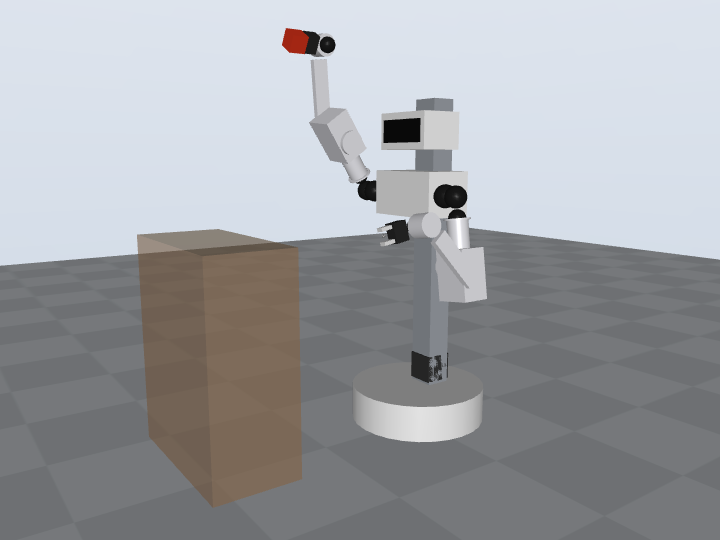
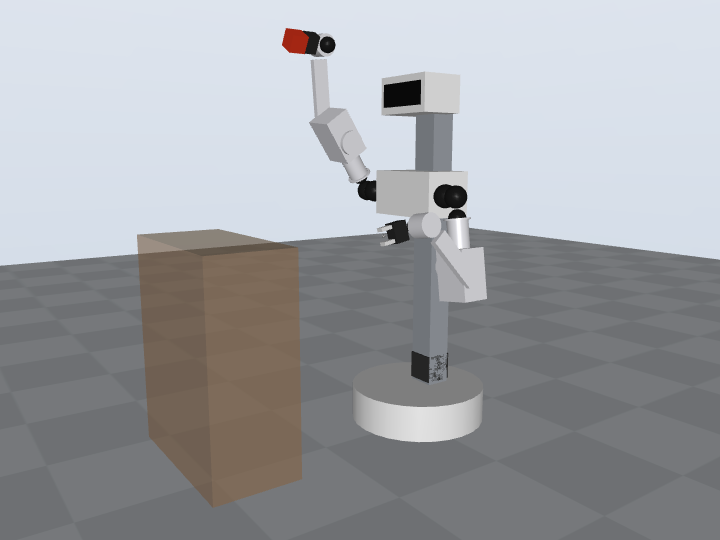
D8: head fixed on the mast top (owner suggestion); head-camera views; renders
Reach, bimanual and tip margin are unchanged; the lift margin improves to 2.22x.
The head cameras see the floor and table work. Overall height is a constant 1.29 m.

Claude-Session: https://claude.ai/code/session_01RwSoTh3JZTTiPE9Ryxfm6D

Changed region(s): [[0.5194, 0.1185, 0.6417, 0.2963], [0.5806, 0.6519, 0.6111, 0.7111]]

diff --git a/rnd/parts/robot.py b/rnd/parts/robot.py
@@ -47,16 +47,21 @@ def build(lift=None, poses=None):
                     * Rot(0, 0, ang) * omni_wheel(), "dark"))
     # ---- spine + lift carriage (placeholders) ----
     top = z0 + h
-    out += [("ph_spine", Pos(-60, 0, top) * Box(90, 100, u.spine_len * 1000, align=MIN), "steel"),
-            ("ph_handle", Pos(-60, 0, top + u.spine_len * 1000) * (Rot(90, 0, 0) * (Cylinder(45, 30) - Cylinder(33, 31))), "dark")]
-    # ---- torso + head (placeholders) at the shoulder height ----
+    spine_top = top + u.spine_len * 1000
+    out += [("ph_spine", Pos(-60, 0, top) * Box(90, 100, u.spine_len * 1000, align=MIN), "steel")]
+    # ---- head: on the mast top (owner suggestion, D8) or riding the torso ----
+    hz = spine_top + 10 if u.head_on_mast else lift_mm + 220
+    head = [("ph_head", Pos(10, 0, hz) * _rbox(160, 240, 130, 40), "white"),
+            ("ph_visor", Pos(86, 0, hz + 5) * _rbox(10, 200, 70, 4), "dark"),
+            ("ph_eye_l", Pos(92, 45, hz + 8) * Rot(0, 90, 0) * Cylinder(11, 2), "orange"),
+            ("ph_eye_r", Pos(92, -45, hz + 8) * Rot(0, 90, 0) * Cylinder(11, 2), "orange"),
+            ("ph_handle", Pos(-20, 0, hz + 65) * (Rot(90, 0, 0) * (Cylinder(38, 26) - Cylinder(27, 27))), "dark")]
+    if not u.head_on_mast:
+        head.append(("ph_neck", Pos(0, 0, lift_mm + 80) * Cylinder(25, 80, align=MIN), "dark"))
+    out += head
+    # ---- torso (placeholder) at the shoulder height ----
     out += [("ph_torso", Pos(0, 0, lift_mm) * _rbox(180, 300, 160, 30), "white"),
-            ("ph_chest_light", Pos(91, 0, lift_mm - 20) * Box(2, 180, 8), "orange"),
-            ("ph_neck", Pos(0, 0, lift_mm + 80) * Cylinder(25, 80, align=MIN), "dark"),
-            ("ph_head", Pos(10, 0, lift_mm + 220) * _rbox(160, 240, 130, 40), "white"),
-            ("ph_visor", Pos(86, 0, lift_mm + 225) * _rbox(10, 200, 70, 4), "dark"),
-            ("ph_eye_l", Pos(92, 45, lift_mm + 228) * Rot(0, 90, 0) * Cylinder(11, 2), "orange"),
-            ("ph_eye_r", Pos(92, -45, lift_mm + 228) * Rot(0, 90, 0) * Cylinder(11, 2), "orange")]
+            ("ph_chest_light", Pos(91, 0, lift_mm - 20) * Box(2, 180, 8), "orange")]
     # ---- arms: shoulder pitch module (CAD) + roll stage (placeholder) + CAD arm ----
     poses = poses or {"l": dict(pitch=-15, elbow=-70, wrist=-20), "r": dict(pitch=-70, elbow=-45, wrist=-25)}
     for side, s in (("l", 1), ("r", -1)):

diff --git a/rnd/twin.py b/rnd/twin.py
@@ -93,6 +93,15 @@ def build_xml(d: Design, geometry: str | None = None) -> str:
         </body>
       </body>"""
 
+    head_z = b.clearance + b.height + u.spine_len + 0.01      # head centre when it sits on the mast top
+
+    def head_xml(z):
+        return (f'<geom type="box" size="0.08 0.12 0.065" pos="0.01 0 {z}" mass="{u.head_mass}" rgba=".95 .95 .95 1"/>'
+                f'<geom type="box" size="0.01 0.1 0.04" pos="0.085 0 {z}" mass="0.001" rgba=".05 .05 .05 1"/>'
+                # head depth camera (Gemini 336 class, ~65° vertical FOV), tilted 60° down: the floor-work view
+                f'<camera name="head_down" pos="0.095 0 {z}" xyaxes="0 -1 0 0.866 0 0.5" fovy="65"/>'
+                f'<camera name="head_level" pos="0.095 0 {z}" xyaxes="0 -1 0 0 0 1" fovy="65"/>')
+
     torso_m = u.carriage_mass + u.torso_struct_mass + u.compute_mass + u.cable_mass + 2 * a.pitch_module_mass
     spine_m = u.spine_len * u.spine_mass_per_m + u.handle_mass + b.coupling_mass / 2
     return f"""<mujoco model="pip_v4_twin">
@@ -111,11 +120,11 @@ def build_xml(d: Design, geometry: str | None = None) -> str:
       <geom type="box" size="0.07 0.05 0.03" pos="-0.03 0 {b.clearance+0.035}" mass="{b.battery_mass}" rgba=".2 .3 .7 1"/>
       <geom type="box" size="0.045 0.05 {u.spine_len/2}" pos="-0.06 0 {b.clearance + b.height + u.spine_len/2}" mass="{spine_m}" rgba=".6 .62 .65 1"/>
       <geom type="box" size="0.05 0.05 0.05" pos="-0.06 0 {b.clearance + b.height + 0.06}" mass="{u.lift_motor_mass}" rgba=".2 .2 .2 1"/>
+      {head_xml(head_z) if u.head_on_mast else ""}
       <body name="torso" pos="0 0 0">
         <joint name="lift" type="slide" axis="0 0 1" range="{u.lift_min} {u.lift_max}"/>
         <geom type="box" size="0.09 0.15 0.08" mass="{torso_m}" rgba=".95 .95 .95 1"/>
-        <geom type="box" size="0.08 0.12 0.065" pos="0.01 0 0.22" mass="{u.head_mass}" rgba=".95 .95 .95 1"/>
-        <geom type="box" size="0.01 0.1 0.04" pos="0.085 0 0.22" mass="0.001" rgba=".05 .05 .05 1"/>
+        {"" if u.head_on_mast else head_xml(0.22)}
         {arm('r')}{arm('l')}
       </body>
     </body>

diff --git a/rnd/params.py b/rnd/params.py
@@ -98,6 +98,7 @@ class Upper:
     torso_struct_mass: float = 0.9 # torso structure + shells (ESTIMATE)
     compute_mass: float = 0.45     # Pi 5 + Jetson option + CAN + DC-DC
     head_mass: float = 0.60        # 2×STS3215 + Gemini 336 + display + mic + speaker + shell
+    head_on_mast: bool = True      # owner suggestion (2026-11-25): head fixed on top of the spine; torso + arms ride the lift below it
     cable_mass: float = 0.25
     handle_mass: float = 0.10
     # Carry split: each arm detaches at its shoulder-pitch KX socket (one collar twist + a blind-mate plug).

diff --git a/rnd/lift.py b/rnd/lift.py
@@ -18,7 +18,7 @@ PAYLOAD = 2.0   # kg, both hands
 
 def moving_mass(d: Design = BASELINE) -> float:
     mb = mass_budget(d)
-    fixed = {"spine extrusion", "lift motor", "handle", "coupling (upper half)"}
+    fixed = {"spine extrusion", "lift motor", "handle", "coupling (upper half)"} | ({"head"} if d.upper.head_on_mast else set())
     upper = sum(m for n, m in mb["upper"] if n not in fixed)
     arms = 2 * sum(m for _, m in mb.get("arm (each, detachable)", []))
     return upper + arms

diff --git a/docs/RND_PLAN.md b/docs/RND_PLAN.md
@@ -69,6 +69,7 @@ Each scheduled run (and any interactive session) does one **loop**:
 | D4b | **Counter grasps use top-down or 45° approach, whichever is collision-free** (top-down alone reaches 62 % of counter cells, combined 100 %). Telescoping spine deferred: it would cost ~0.6 kg on a tight carry budget. Revisit if real tests show the need. | New (loop 1b) | [twin](rnd/twin.md) |
 | D4d | **Bones: 1.2 mm printed shells + carbon tubes** for the upper-arm neck (Ø40×1) and the forearm link (Ø30×1), bonded into printed sockets. Stiffness, not strength, limits printed bones: the hand sagged 4.1 mm (printed only) → **1.6 mm** with CF. Precedent: Hello Robot Stretch, Kinova carbon links | New (loop 9) | [bones](rnd/bones.md) |
 | D5 | **Lift: shoulder height 0.35–1.05 m. Standard GIM6010-8 cartridge on a 20T HTD 5M belt along the spine, with a spring-applied, solenoid-released ratchet pawl** (fail-safe, 0 W holding, safe carry mode). 2.1× torque margin, 3.5 s full travel, 0.55 kg. *Changed* from a NEMA23 + brake (1.25 kg, another motor type); constant-force springs rejected (they shoot up when the arms are removed; fatigue) | Changed 2026-11-25 (loop 8) | [lift](rnd/lift.md) |
+| D8 | **Head fixed on top of the mast** (owner's suggestion). The torso and arms ride the lift below it. Overall height is a constant **1.29 m**. The head camera always has the high vantage (tilts 60° down for floor work, level/up for shelves; precedent: Hello Robot Stretch). The bare mast no longer pokes through the head, and 0.6 kg leaves the lift's moving mass. Reach 98 %, bimanual 4/4 and tip margin unchanged | New 2026-11-25 | [head views](rnd/img/head_camera_views.png), [render](rnd/img/robot_head_on_mast.png) |
 | D6 | Toolchain: build123d CAD, MuJoCo twin generated from `rnd/params.py`, **arm collision geometry from CAD hulls** (`rnd/parts/collision.py`, loop 6), Blender renders | Holding | `rnd/` |
 | D4c | **Belt stages: HTD 5M, 15 mm, 20T small pulley** (pitch 20:50, roll 20:60, elbow 20:40), printed pulleys, the small pulley on its own bearing hub. **Elbow motor stays at the elbow:** a remote motor on a long belt (Blue-style) was evaluated and rejected (–0.5 N·m at the shoulder, +0.24 kg) | New (loop 3) | [belts](rnd/belts.md) |
 | D7 | **Power bus 24 V (6S Li-ion)**, replacing 48 V | Holding | [T01](rnd/T01_specs.md) |
@@ -110,7 +111,8 @@ Done so far: T01 specs ✅, toolchain v0 (`rnd/`) ✅, budgets v0 ✅, drivetrai
       - the shoulders read as bolted-on brackets
       - the base is a plain puck
     - **Options:**
-      - head on the spine top with the torso sliding under it, or a telescoping mast
+      - ✅ head on the mast top (D8)
+      - the mast is now the visual spine: give it a cover with a light strip and a cable channel
       - wrap the elbow stage in a shaped shell
       - integrate the shoulders into the torso shell
 10. **BOM, cost and assembly time;** carry split validated from CAD masses.

diff --git a/docs/RND_LOG.md b/docs/RND_LOG.md
@@ -298,3 +298,18 @@ Newest entries at the bottom. Each entry: date (UTC), backlog item, what was don
 - **Honest conclusion on the diet:** the bones were already thin. Each arm piece (3.4 kg) is ~60 % actuators + belt stages, so the 2.5 kg/arm target is dropped. Carry passes anyway (core 6.5 kg, arm 3.4 kg).
 - **Scorecard:** new row "hand sag" **1.6 mm** ✅. Cost $2,764 → $2,788. Tip margin 70 mm; all other rows unchanged.
 - **Next:** base CAD (the chassis 1.4 kg and base layout are still ESTIMATEs; the base is the last major untouched module).
+
+## 2026-11-25: owner input, head fixed on the mast top (D8)
+
+The owner asked why the head doesn't stay at the top. Evaluated and adopted:
+
+- **Twin:** the head is now a fixed body at the mast top (centre 1.225 m; its underside clears the torso at full lift by 30 mm).
+  - Reach still **98 %**, bimanual 4/4, tip margin min **70 mm** (unchanged).
+  - Arms vs head collisions are checked.
+- **Lift:** the 0.6 kg head leaves the moving mass → torque margin **2.13 → 2.22×**.
+- **Head camera check:** new head cameras in the twin; views in [img/head_camera_views.png](rnd/img/head_camera_views.png).
+  - Tilted 60° down, the head sees the hand at the floor and on the table.
+  - Level/up, it sees the shelf hand.
+  - The torso blocks the lower part of the frame during floor work; the wrist cameras cover close-up work (Stretch precedent).
+- **Looks:** the overall height is a constant 1.29 m, and the mast no longer pokes through the head. The new problem is that the mast now reads as a long neck when the torso is low: give it a shaped cover with a light strip.
+- Renders at low and high torso: [img/robot_head_on_mast.png](rnd/img/robot_head_on_mast.png).

diff --git a/docs/rnd/lift.md b/docs/rnd/lift.md
@@ -1,6 +1,6 @@
 # Lift (auto-generated by `python -m rnd.run_all`)
 
-Moving mass 11.7 kg + 2 kg payload; travel 0.35–1.05 m; accel 1.0 m/s².
+Moving mass 11.1 kg + 2 kg payload; travel 0.35–1.05 m; accel 1.0 m/s².
 
 | Option | Mass (kg) | Cost ($, ESTIMATE) | Speed (m/s) | Power-off | Holding power | Main risk |
 |---|---|---|---|---|---|---|
@@ -13,11 +13,11 @@ Moving mass 11.7 kg + 2 kg payload; travel 0.35–1.05 m; accel 1.0 m/s².
 
 | Check | Value |
 |---|---|
-| Force (moving + payload, with accel) | 148 N |
-| Motor torque on a 20T HTD 5M pulley | 2.35 N·m → **2.13×** rated margin |
+| Force (moving + payload, with accel) | 141 N |
+| Motor torque on a 20T HTD 5M pulley | 2.25 N·m → **2.22×** rated margin |
 | Speed at rated rpm / full travel | 0.20 m/s / 3.5 s (faster when lightly loaded, up to ~420 rpm) |
-| Belt (15 mm HTD 5M, open-ended along the spine) | safety 6.6× |
-| Pawl catch after a power loss mid-move (×3 shock) | ratchet tooth shear 8.9 MPa in PETG (limit ~30) |
+| Belt (15 mm HTD 5M, open-ended along the spine) | safety 6.9× |
+| Pawl catch after a power loss mid-move (×3 shock) | ratchet tooth shear 8.6 MPa in PETG (limit ~30) |
 
 **Why C:** it's the lightest and uses the standard GIM cartridge (motors are reusable across builds). It holds with **zero power** at rest, and it's fail-safe: the pawl is spring-applied and solenoid-released, so losing power drops it into the ratchet. Precedent: spring-applied / power-released safety brakes and ratchet fall arrest (stair lifts, hoists, FRC climbers).
 **Carry mode:** park at the lowest stop with the pawl engaged; nothing is spring-loaded, so removing the arms is safe (unlike B).

diff --git a/docs/rnd/twin.md b/docs/rnd/twin.md
@@ -4,9 +4,9 @@ Model generated from `rnd/params.py`: arm 0.3+0.28+0.13 m, wrist ±120°, should
 
 | Target | Reach coverage | Tip margin per layout (mm / max base accel m/s²) |
 |---|---|---|
-| counter, angled 45° grasp (z 0.95) | 100% | X wheel-fwd R.21 (chosen): 74 / 1.4; X edge-fwd R.21: 67 / 1.2; kiwi R.21 (rejected): 44 / 0.8 |
-| floor pickup (z 0.03, gripper down) | 100% | X wheel-fwd R.21 (chosen): 74 / 2.2; X edge-fwd R.21: 67 / 2.0; kiwi R.21 (rejected): 44 / 1.3 |
-| dishwasher low rack (z 0.20, down) | 94% | X wheel-fwd R.21 (chosen): 70 / 1.8; X edge-fwd R.21: 56 / 1.5; kiwi R.21 (rejected): 40 / 1.1 |
+| counter, angled 45° grasp (z 0.95) | 100% | X wheel-fwd R.21 (chosen): 74 / 1.3; X edge-fwd R.21: 67 / 1.2; kiwi R.21 (rejected): 44 / 0.8 |
+| floor pickup (z 0.03, gripper down) | 100% | X wheel-fwd R.21 (chosen): 74 / 2.1; X edge-fwd R.21: 67 / 1.9; kiwi R.21 (rejected): 44 / 1.3 |
+| dishwasher low rack (z 0.20, down) | 94% | X wheel-fwd R.21 (chosen): 70 / 1.8; X edge-fwd R.21: 56 / 1.4; kiwi R.21 (rejected): 40 / 1.0 |
 | table top (z 0.78, down) | 95% | X wheel-fwd R.21 (chosen): 74 / 1.3; X edge-fwd R.21: 63 / 1.1; kiwi R.21 (rejected): 43 / 0.7 |
 | counter top-down only (z 0.95) [info: counters use top-down OR 45°, see D4b] | 62% | X wheel-fwd R.21 (chosen): 74 / 1.2; X edge-fwd R.21: 63 / 1.1; kiwi R.21 (rejected): 43 / 0.7 |
 | shelf (z 1.20, horizontal) | 100% | X wheel-fwd R.21 (chosen): 82 / 1.4; X edge-fwd R.21: 75 / 1.2; kiwi R.21 (rejected): 51 / 0.8 |

diff --git a/docs/rnd/SCORECARD.md b/docs/rnd/SCORECARD.md
@@ -20,7 +20,7 @@
 | R2 belt safety at actuator peak (HTD 5M 15 mm, min) | 1.41× | ≥ 1.2× | ✅ |
 | R3 arm-detach clamp: lift-off moment / need (×1.5 dynamic) | 2.1× | ≥ 1.5× | ✅ |
 | R12 socket bearing static safety (min) | 5.2 | ≥ 2 | ✅ |
-| R5 lift: torque margin / full-travel time | 2.13× / 3.5 s | ≥ 1.5× / ≤ 6 s | ✅ |
+| R5 lift: torque margin / full-travel time | 2.22× / 3.5 s | ≥ 1.5× / ≤ 6 s | ✅ |
 | R6 base speed at rated motor rpm | 0.96 m/s | ≥ 0.8 m/s | ✅ |
 | R4 15 mm threshold torque (45° heading) | 4.4 N·m / 5 rated | < rated | ✅ |
 | R10 assembly time | not yet measured (needs CAD) | ≤ 4 h | — |
